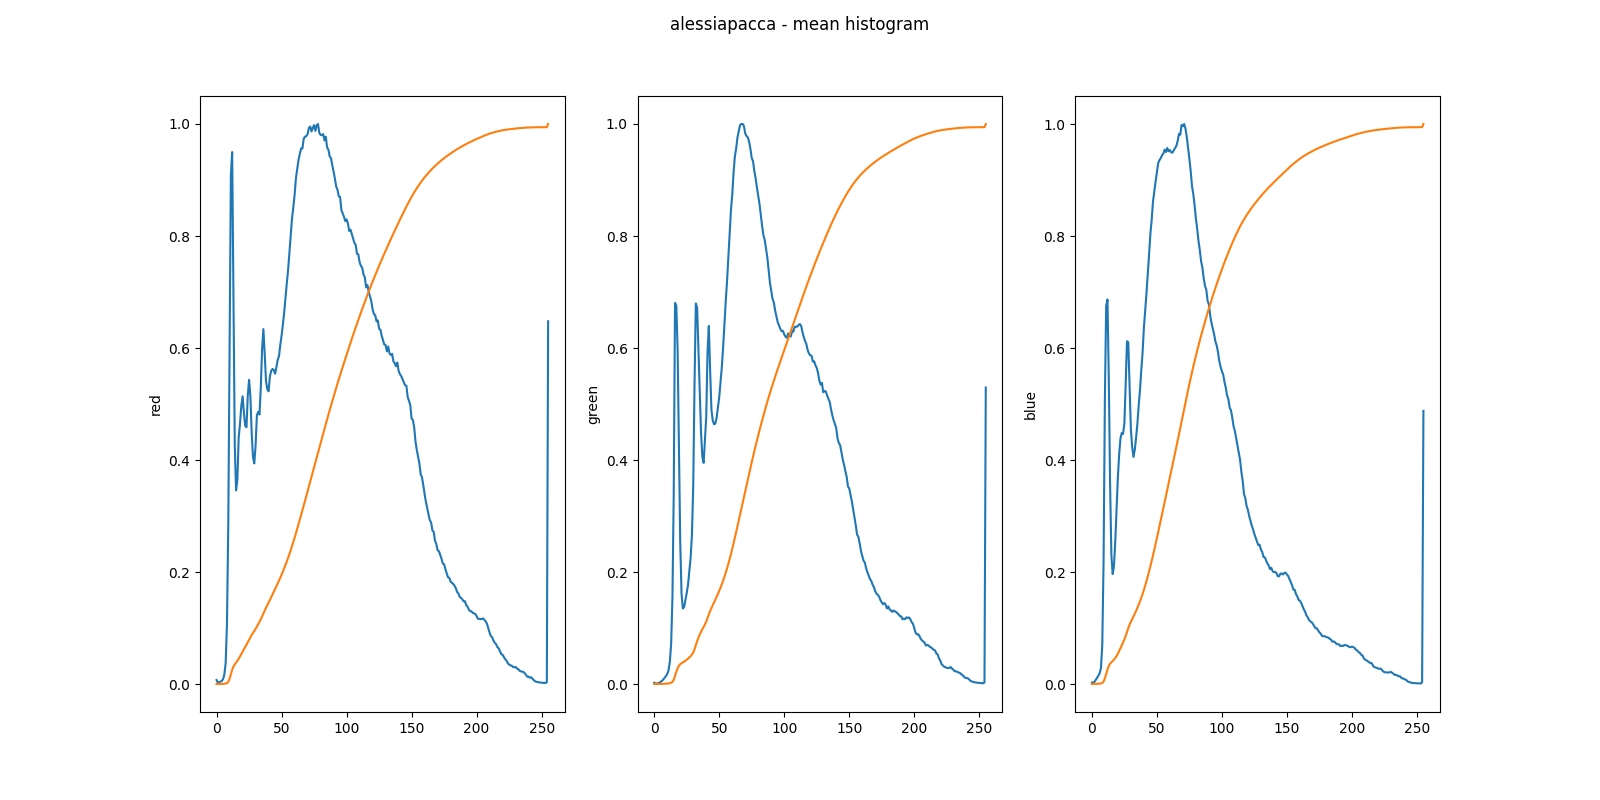
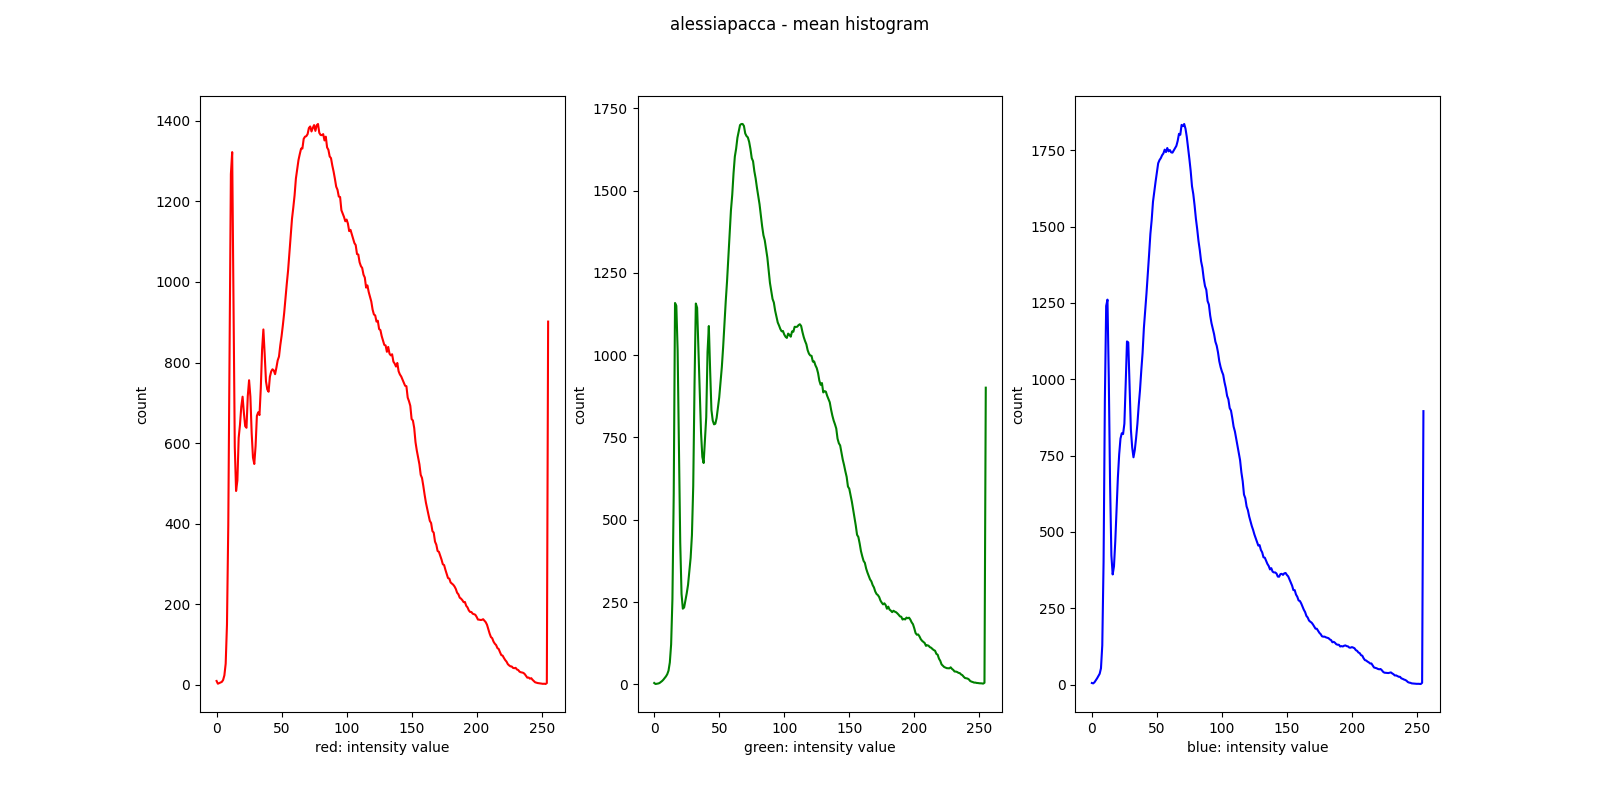
Update histogram plots

diff --git a/other/analysis/histogram.py b/other/analysis/histogram.py
@@ -73,14 +73,17 @@ def get_histograms(image_list, name="train", save_images=False, debug=False):
     return img_hist_list, img_cdf_list
 
 
-def plot_histogram_cdf(img_hist_per_channel, img_cfd_per_channel, title="", fname=None, dir="", bins=np.arange(256)):
+def plot_histogram_cdf(img_hist_per_channel, img_cfd_per_channel, title="", fname=None, dir="", bins=np.arange(256),
+                       plot_cdf=False):
     fig, axes = plt.subplots(nrows=1, ncols=3, figsize=(16, 8))
     for c, c_color in enumerate(('red', 'green', 'blue')):
         img_hist = img_hist_per_channel[c]
         img_cdf = img_cfd_per_channel[c]
-        axes[c].plot(bins, img_hist / img_hist.max())
-        axes[c].plot(bins, img_cdf)
-        axes[c].set_ylabel(c_color)
+        axes[c].plot(bins, img_hist, color=c_color)
+        if plot_cdf:
+            axes[c].plot(bins, img_cdf)
+        axes[c].set_ylabel("count")
+        axes[c].set_xlabel(c_color + ": intensity value")
     fig.suptitle(title)
     if fname is not None:
         if not os.path.exists(dir):
@@ -180,14 +183,14 @@ if __name__ == '__main__':
 
     # test data
     dirEthTestImages = "../../data/test_images/"
-    process_on_dataset(dirEthTestImages, "ETH test")
+    process_on_dataset(dirEthTestImages, "ETH test images")
 
     # training data
     DIR = "../../data/training/"
-    process_on_dataset(os.path.join(DIR, "eth_dataset/original/images"), "ETH train")
+    process_on_dataset(os.path.join(DIR, "eth_dataset/original/images"), "ETH train images")
 
     # other datasets
-    datasets_dir = ["jkfrie", "matejsladek", "alessiapacca", "osm_roadtracer", "ottawa"]
+    datasets_dir = ["gmaps_public", "gmaps_custom", "matejsladek", "alessiapacca", "osm_roadtracer", "ottawa"]
 
     for dataset in datasets_dir:
         print(dataset)
